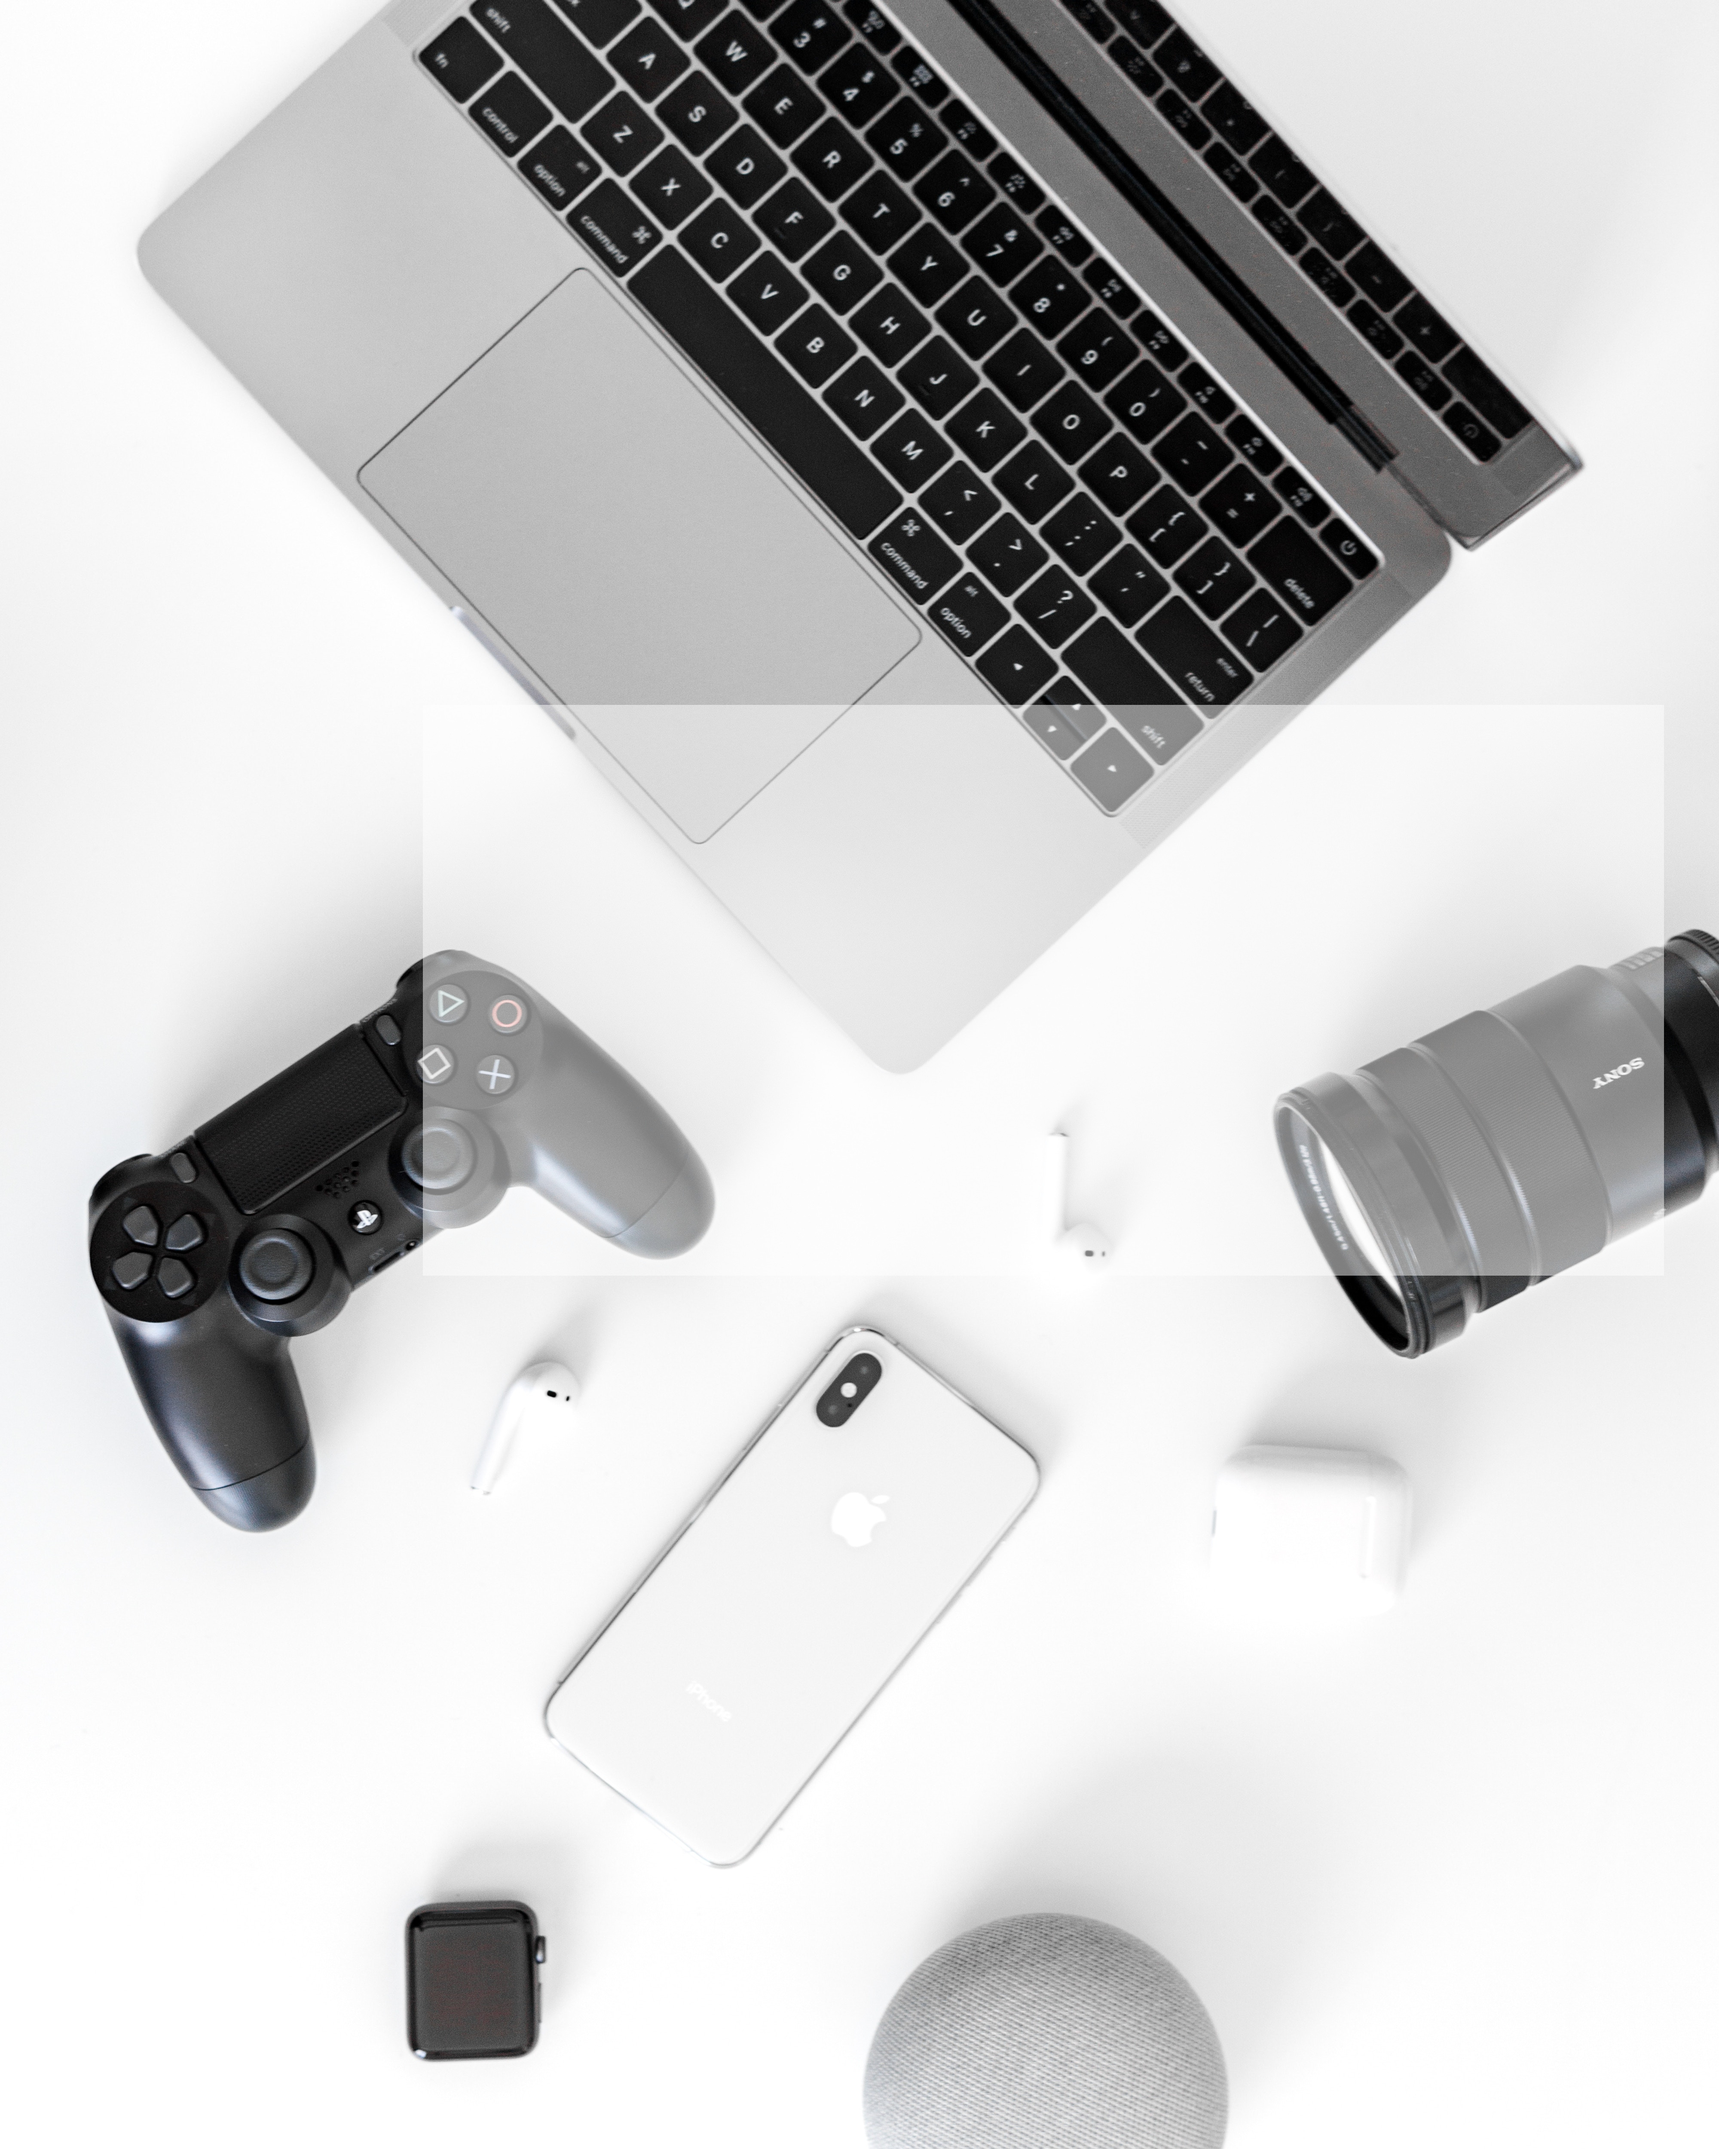
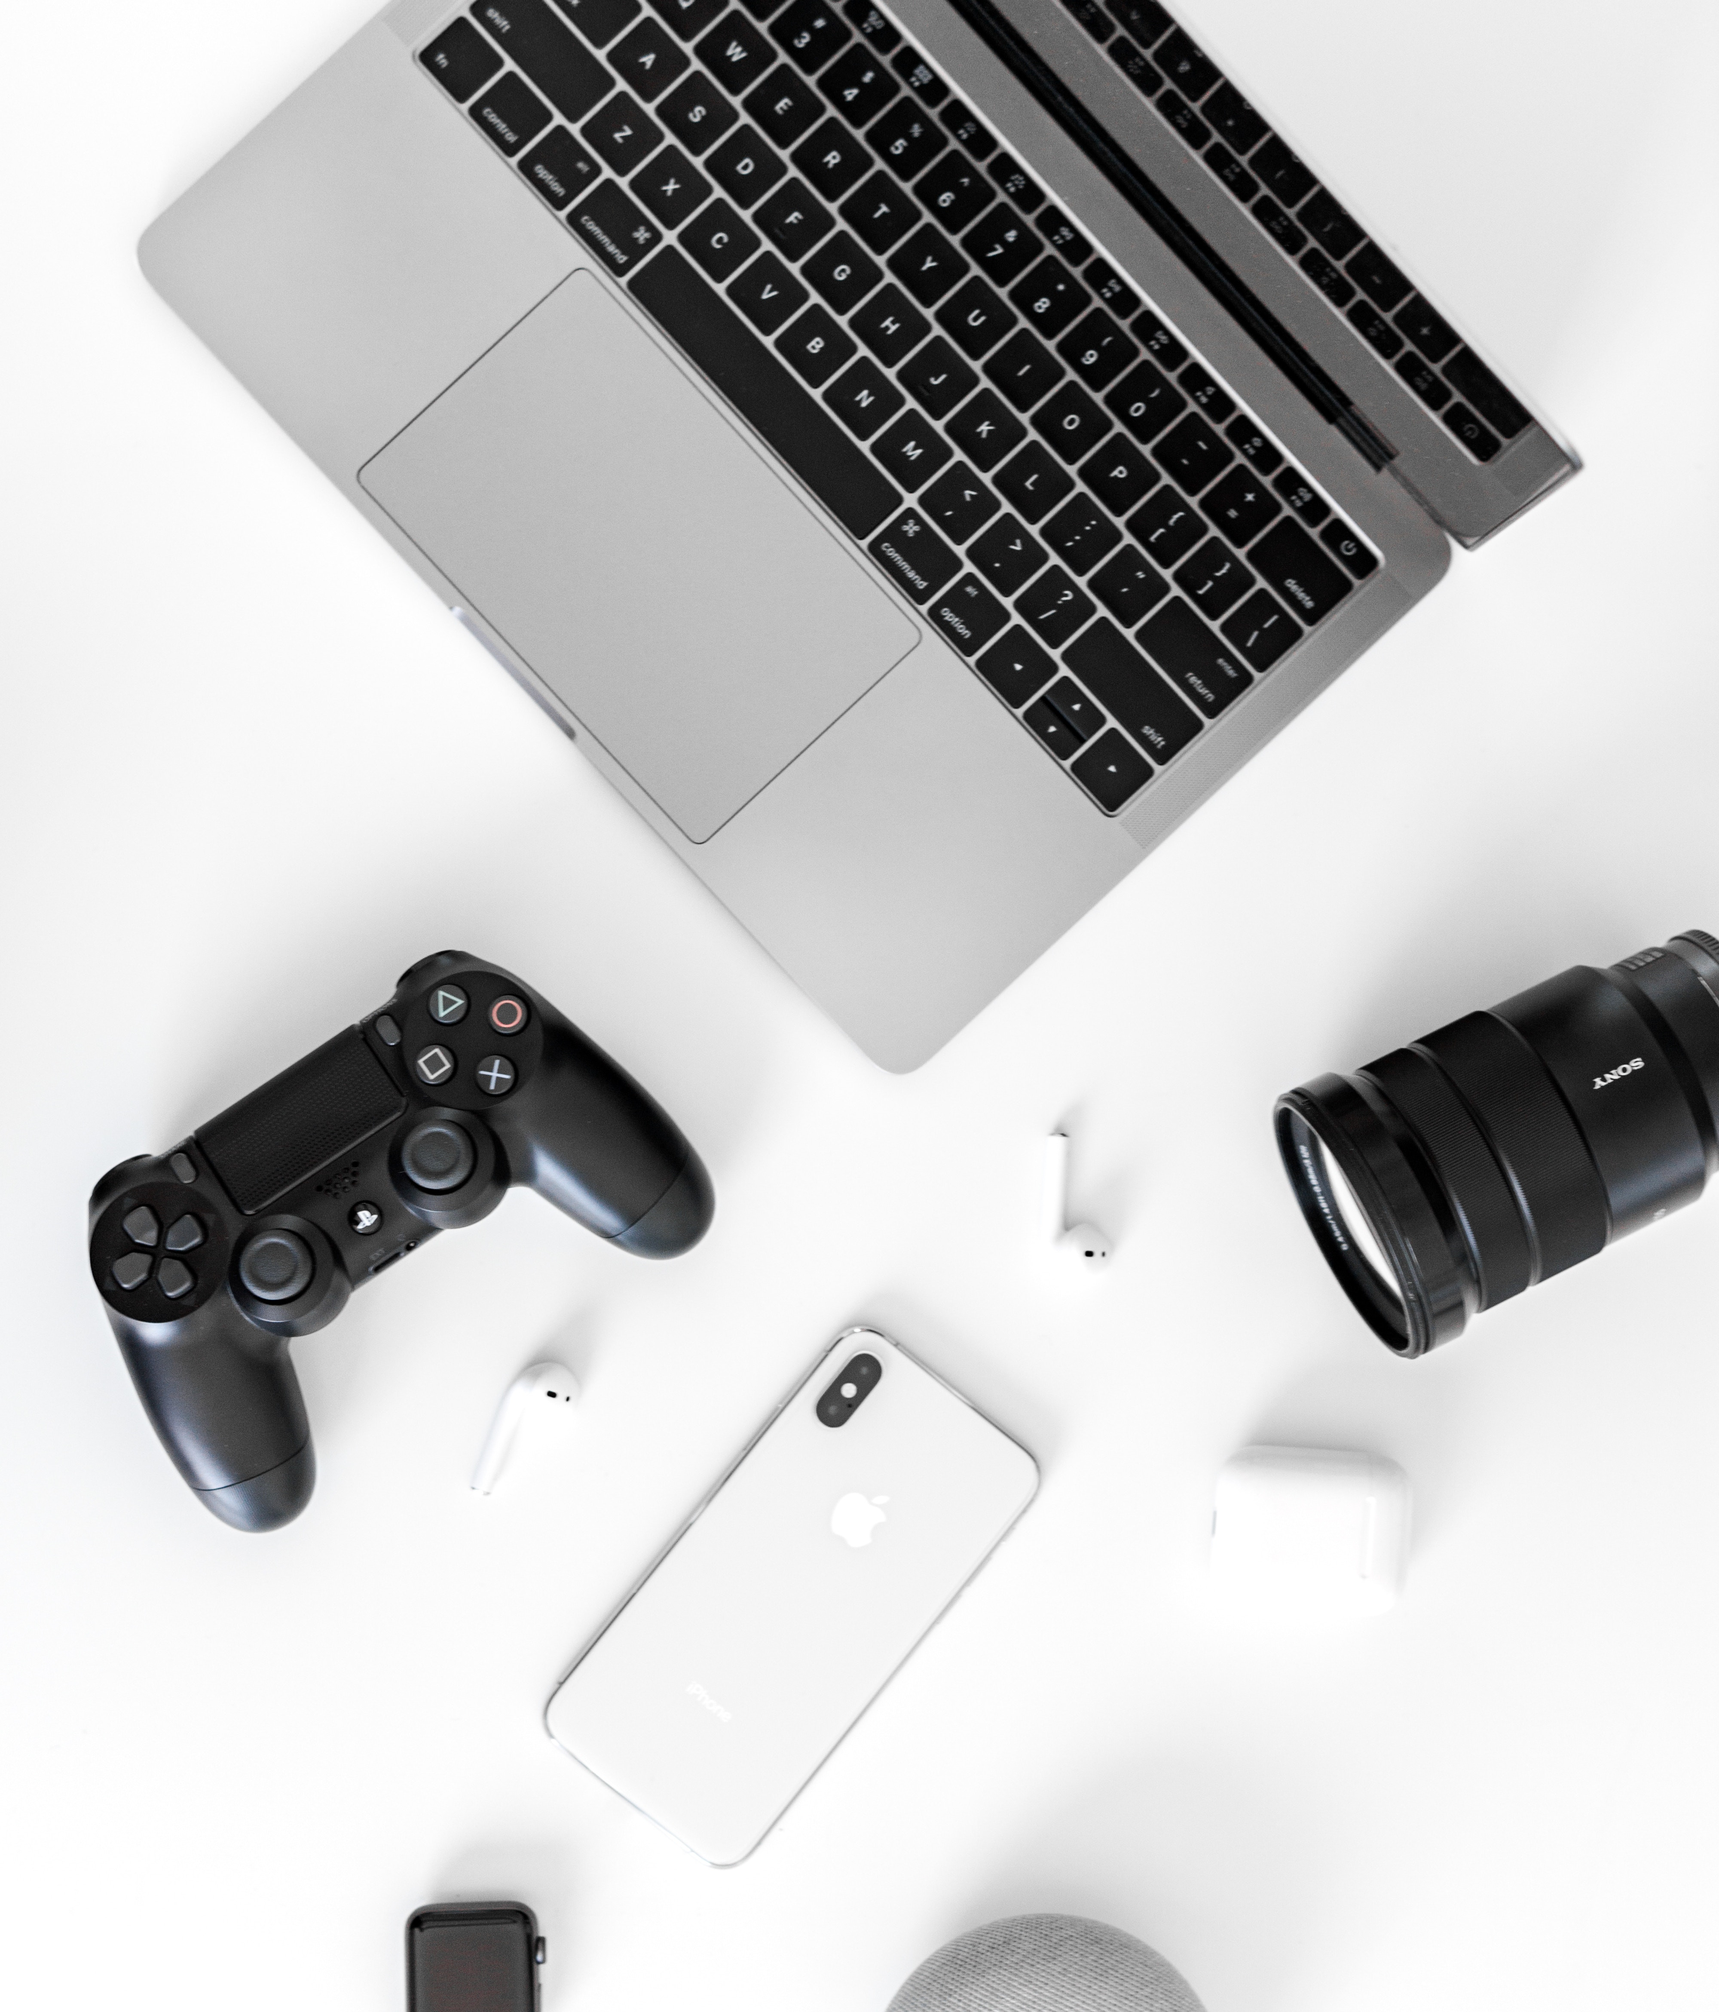
formatted title screen

diff --git a/css/stylish-portfolio.min.css b/css/stylish-portfolio.min.css
@@ -2,4 +2,4 @@
  * Start Bootstrap - Stylish Portfolio v5.0.4 (https://startbootstrap.com/template-overviews/stylish-portfolio)
  * Copyright 2013-2019 Start Bootstrap
  * Licensed under MIT (https://github.com/BlackrockDigital/startbootstrap-stylish-portfolio/blob/master/LICENSE)
- */body,html{width:100%;height:100%}body{font-family:'Source Sans Pro'}.btn-xl{padding:1.25rem 2.5rem}.content-section{padding-top:7.5rem;padding-bottom:7.5rem}.content-section-heading h2{font-size:3rem}.content-section-heading h3{font-size:1rem;text-transform:uppercase}h1,h2,h3,h4,h5,h6{font-weight:700}.text-faded{color:rgba(255,255,255,.7)}.map{height:30rem}@media (max-width:992px){.map{height:75%}}.map iframe{pointer-events:none}.scroll-to-top{position:fixed;right:15px;bottom:15px;display:none;width:50px;height:50px;text-align:center;color:#fff;background:rgba(52,58,64,.5);line-height:45px}.scroll-to-top:focus,.scroll-to-top:hover{color:#fff}.scroll-to-top:hover{background:#343a40}.scroll-to-top i{font-weight:800}.masthead{min-height:30rem;position:relative;display:table;width:100%;height:auto;padding-top:8rem;padding-bottom:8rem;background:-webkit-gradient(linear,left top,right top,from(rgba(255,255,255,.1)),to(rgba(255,255,255,.1))),url(../img/ElectCollage.jpg);background:linear-gradient(90deg,rgba(255,255,255,.1) 0,rgba(255,255,255,.1) 100%),url(../img/ElectCollage.jpg);background-position:center center;background-repeat:no-repeat;background-size:cover}.masthead h1{font-size:4rem;margin:0;padding:0}@media (min-width:992px){.masthead{height:100vh}.masthead h1{font-size:5.5rem}}#sidebar-wrapper{position:fixed;z-index:2;right:0;width:250px;height:100%;-webkit-transition:all .4s ease 0s;transition:all .4s ease 0s;-webkit-transform:translateX(250px);transform:translateX(250px);background:#1d809f;border-left:1px solid rgba(255,255,255,.1)}.sidebar-nav{position:absolute;top:0;width:250px;margin:0;padding:0;list-style:none}.sidebar-nav li.sidebar-nav-item a{display:block;text-decoration:none;color:#fff;padding:15px}.sidebar-nav li a:hover{text-decoration:none;color:#fff;background:rgba(255,255,255,.2)}.sidebar-nav li a:active,.sidebar-nav li a:focus{text-decoration:none}.sidebar-nav>.sidebar-brand{font-size:1.2rem;background:rgba(52,58,64,.1);height:80px;line-height:50px;padding-top:15px;padding-bottom:15px;padding-left:15px}.sidebar-nav>.sidebar-brand a{color:#fff}.sidebar-nav>.sidebar-brand a:hover{color:#fff;background:0 0}#sidebar-wrapper.active{right:250px;width:250px;-webkit-transition:all .4s ease 0s;transition:all .4s ease 0s}.menu-toggle{position:fixed;right:15px;top:15px;width:50px;height:50px;text-align:center;color:#fff;background:rgba(52,58,64,.5);line-height:50px;z-index:999}.menu-toggle:focus,.menu-toggle:hover{color:#fff}.menu-toggle:hover{background:#343a40}.service-icon{background-color:#fff;color:#1d809f;height:7rem;width:7rem;display:block;line-height:7.5rem;font-size:2.25rem;-webkit-box-shadow:0 3px 3px 0 rgba(0,0,0,.1);box-shadow:0 3px 3px 0 rgba(0,0,0,.1)}.callout{padding:15rem 0;background:-webkit-gradient(linear,left top,right top,from(rgba(255,255,255,.1)),to(rgba(255,255,255,.1))),url(../img/bg-callout.jpg);background:linear-gradient(90deg,rgba(255,255,255,.1) 0,rgba(255,255,255,.1) 100%),url(../img/bg-callout.jpg);background-position:center center;background-repeat:no-repeat;background-size:cover}.callout h2{font-size:3.5rem;font-weight:700;display:block;max-width:30rem}.portfolio-item{display:block;position:relative;overflow:hidden;max-width:530px;margin:auto auto 1rem}.portfolio-item .caption{display:-webkit-box;display:-ms-flexbox;display:flex;height:100%;width:100%;background-color:rgba(33,37,41,.2);position:absolute;top:0;bottom:0;z-index:1}.portfolio-item .caption .caption-content{color:#fff;margin:auto 2rem 2rem}.portfolio-item .caption .caption-content h2{font-size:.8rem;text-transform:uppercase}.portfolio-item .caption .caption-content p{font-weight:300;font-size:1.2rem}@media (min-width:992px){.portfolio-item{max-width:none;margin:0}.portfolio-item .caption{-webkit-transition:-webkit-clip-path .25s ease-out,background-color .7s;-webkit-clip-path:inset(0);clip-path:inset(0)}.portfolio-item .caption .caption-content{-webkit-transition:opacity .25s;transition:opacity .25s;margin-left:5rem;margin-right:5rem;margin-bottom:5rem}.portfolio-item img{-webkit-transition:-webkit-clip-path .25s ease-out;-webkit-clip-path:inset(-1px);clip-path:inset(-1px)}.portfolio-item:hover img{-webkit-clip-path:inset(2rem);clip-path:inset(2rem)}.portfolio-item:hover .caption{background-color:rgba(29,128,159,.9);-webkit-clip-path:inset(2rem);clip-path:inset(2rem)}}footer.footer{padding-top:5rem;padding-bottom:5rem}footer.footer .social-link{display:block;height:4rem;width:4rem;line-height:4.3rem;font-size:1.5rem;background-color:#1d809f;-webkit-transition:background-color .15s ease-in-out;transition:background-color .15s ease-in-out;-webkit-box-shadow:0 3px 3px 0 rgba(0,0,0,.1);box-shadow:0 3px 3px 0 rgba(0,0,0,.1)}footer.footer .social-link:hover{background-color:#155d74;text-decoration:none}a{color:#1d809f}a:active,a:focus,a:hover{color:#155d74}.btn-primary{background-color:#1d809f!important;border-color:#1d809f!important;color:#fff!important}.btn-primary:active,.btn-primary:focus,.btn-primary:hover{background-color:#155d74!important;border-color:#155d74!important}.btn-secondary{background-color:#ecb807!important;border-color:#ecb807!important;color:#fff!important}.btn-secondary:active,.btn-secondary:focus,.btn-secondary:hover{background-color:#ba9106!important;border-color:#ba9106!important}.btn-dark{color:#fff!important}.btn{-webkit-box-shadow:0 3px 3px 0 rgba(0,0,0,.1);box-shadow:0 3px 3px 0 rgba(0,0,0,.1);font-weight:700}.bg-primary{background-color:#1d809f!important}.text-primary{color:#1d809f!important}.text-secondary{color:#ecb807!important}
+ */body,html{width:100%;height:100%}body{font-family:'Source Sans Pro'}.btn-xl{padding:1.25rem 2.5rem}.content-section{padding-top:7.5rem;padding-bottom:7.5rem}.content-section-heading h2{font-size:3rem}.content-section-heading h3{font-size:1rem;text-transform:uppercase}h1,h2,h3,h4,h5,h6{font-weight:700}.text-faded{color:rgba(255,255,255,.7)}.map{height:30rem}@media (max-width:992px){.map{height:75%}}.map iframe{pointer-events:none}.scroll-to-top{position:fixed;right:15px;bottom:15px;display:none;width:50px;height:50px;text-align:center;color:#fff;background:rgba(52,58,64,.5);line-height:45px}.scroll-to-top:focus,.scroll-to-top:hover{color:#fff}.scroll-to-top:hover{background:#343a40}.scroll-to-top i{font-weight:800}.masthead{min-height:30rem;position:relative;display:table;width:100%;height:auto;padding-top:8rem;padding-bottom:8rem;background:-webkit-gradient(linear,left top,right top,from(rgba(255,255,255,.1)),to(rgba(255,255,255,.1))),url(../img/ElectCollageEdit.jpg);background:linear-gradient(90deg,rgba(255,255,255,.1) 0,rgba(255,255,255,.1) 100%),url(../img/ElectCollageEdit.jpg);background-position:center center;background-repeat:no-repeat;background-size:cover}.masthead h1{font-size:4rem;margin:0;padding:0}@media (min-width:992px){.masthead{height:100vh}.masthead h1{font-size:5.5rem}}#sidebar-wrapper{position:fixed;z-index:2;right:0;width:250px;height:100%;-webkit-transition:all .4s ease 0s;transition:all .4s ease 0s;-webkit-transform:translateX(250px);transform:translateX(250px);background:#1d809f;border-left:1px solid rgba(255,255,255,.1)}.sidebar-nav{position:absolute;top:0;width:250px;margin:0;padding:0;list-style:none}.sidebar-nav li.sidebar-nav-item a{display:block;text-decoration:none;color:#fff;padding:15px}.sidebar-nav li a:hover{text-decoration:none;color:#fff;background:rgba(255,255,255,.2)}.sidebar-nav li a:active,.sidebar-nav li a:focus{text-decoration:none}.sidebar-nav>.sidebar-brand{font-size:1.2rem;background:rgba(52,58,64,.1);height:80px;line-height:50px;padding-top:15px;padding-bottom:15px;padding-left:15px}.sidebar-nav>.sidebar-brand a{color:#fff}.sidebar-nav>.sidebar-brand a:hover{color:#fff;background:0 0}#sidebar-wrapper.active{right:250px;width:250px;-webkit-transition:all .4s ease 0s;transition:all .4s ease 0s}.menu-toggle{position:fixed;right:15px;top:15px;width:50px;height:50px;text-align:center;color:#fff;background:rgba(52,58,64,.5);line-height:50px;z-index:999}.menu-toggle:focus,.menu-toggle:hover{color:#fff}.menu-toggle:hover{background:#343a40}.service-icon{background-color:#fff;color:#1d809f;height:7rem;width:7rem;display:block;line-height:7.5rem;font-size:2.25rem;-webkit-box-shadow:0 3px 3px 0 rgba(0,0,0,.1);box-shadow:0 3px 3px 0 rgba(0,0,0,.1)}.callout{padding:15rem 0;background:-webkit-gradient(linear,left top,right top,from(rgba(255,255,255,.1)),to(rgba(255,255,255,.1))),url(../img/bg-callout.jpg);background:linear-gradient(90deg,rgba(255,255,255,.1) 0,rgba(255,255,255,.1) 100%),url(../img/bg-callout.jpg);background-position:center center;background-repeat:no-repeat;background-size:cover}.callout h2{font-size:3.5rem;font-weight:700;display:block;max-width:30rem}.portfolio-item{display:block;position:relative;overflow:hidden;max-width:530px;margin:auto auto 1rem}.portfolio-item .caption{display:-webkit-box;display:-ms-flexbox;display:flex;height:100%;width:100%;background-color:rgba(33,37,41,.2);position:absolute;top:0;bottom:0;z-index:1}.portfolio-item .caption .caption-content{color:#fff;margin:auto 2rem 2rem}.portfolio-item .caption .caption-content h2{font-size:.8rem;text-transform:uppercase}.portfolio-item .caption .caption-content p{font-weight:300;font-size:1.2rem}@media (min-width:992px){.portfolio-item{max-width:none;margin:0}.portfolio-item .caption{-webkit-transition:-webkit-clip-path .25s ease-out,background-color .7s;-webkit-clip-path:inset(0);clip-path:inset(0)}.portfolio-item .caption .caption-content{-webkit-transition:opacity .25s;transition:opacity .25s;margin-left:5rem;margin-right:5rem;margin-bottom:5rem}.portfolio-item img{-webkit-transition:-webkit-clip-path .25s ease-out;-webkit-clip-path:inset(-1px);clip-path:inset(-1px)}.portfolio-item:hover img{-webkit-clip-path:inset(2rem);clip-path:inset(2rem)}.portfolio-item:hover .caption{background-color:rgba(29,128,159,.9);-webkit-clip-path:inset(2rem);clip-path:inset(2rem)}}footer.footer{padding-top:5rem;padding-bottom:5rem}footer.footer .social-link{display:block;height:4rem;width:4rem;line-height:4.3rem;font-size:1.5rem;background-color:#1d809f;-webkit-transition:background-color .15s ease-in-out;transition:background-color .15s ease-in-out;-webkit-box-shadow:0 3px 3px 0 rgba(0,0,0,.1);box-shadow:0 3px 3px 0 rgba(0,0,0,.1)}footer.footer .social-link:hover{background-color:#155d74;text-decoration:none}a{color:#1d809f}a:active,a:focus,a:hover{color:#155d74}.btn-primary{background-color:#1d809f!important;border-color:#1d809f!important;color:#fff!important}.btn-primary:active,.btn-primary:focus,.btn-primary:hover{background-color:#155d74!important;border-color:#155d74!important}.btn-secondary{background-color:#ecb807!important;border-color:#ecb807!important;color:#fff!important}.btn-secondary:active,.btn-secondary:focus,.btn-secondary:hover{background-color:#ba9106!important;border-color:#ba9106!important}.btn-dark{color:#fff!important}.btn{-webkit-box-shadow:0 3px 3px 0 rgba(0,0,0,.1);box-shadow:0 3px 3px 0 rgba(0,0,0,.1);font-weight:700}.bg-primary{background-color:#1d809f!important}.text-primary{color:#1d809f!important}.text-secondary{color:#ecb807!important}
